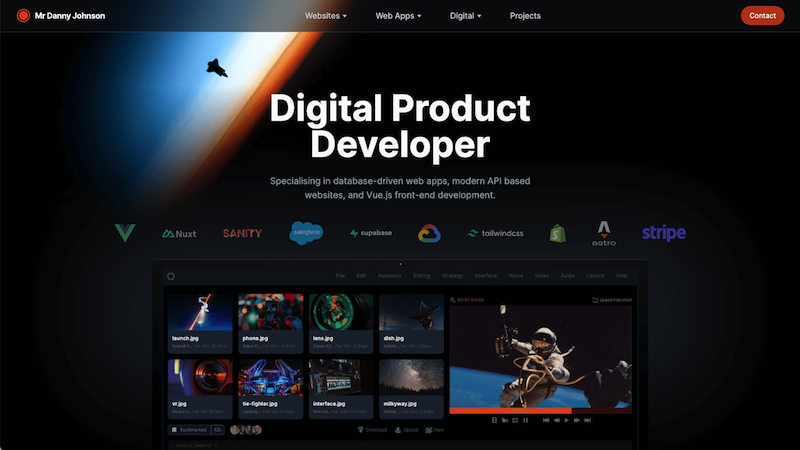
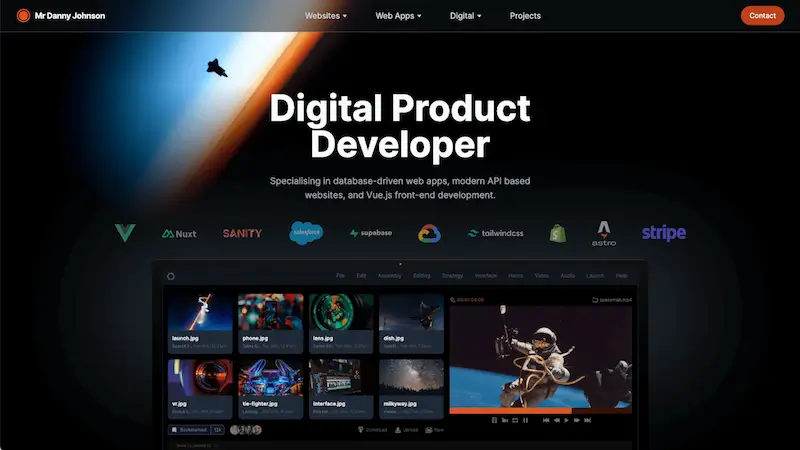
chore: minifying images, removing optional markdown entry props

diff --git a/src/content/showcase/mrdannyjohnson.md b/src/content/showcase/mrdannyjohnson.md
@@ -3,6 +3,4 @@ title: "Mr Danny Johnson"
 image: "/src/content/showcase/_images/mrdannyjohnson.webp"
 url: "https://www.mrdannyjohnson.co.uk/"
 categories: ["personal"]
-highlight: false
-featured: 10
 ---
